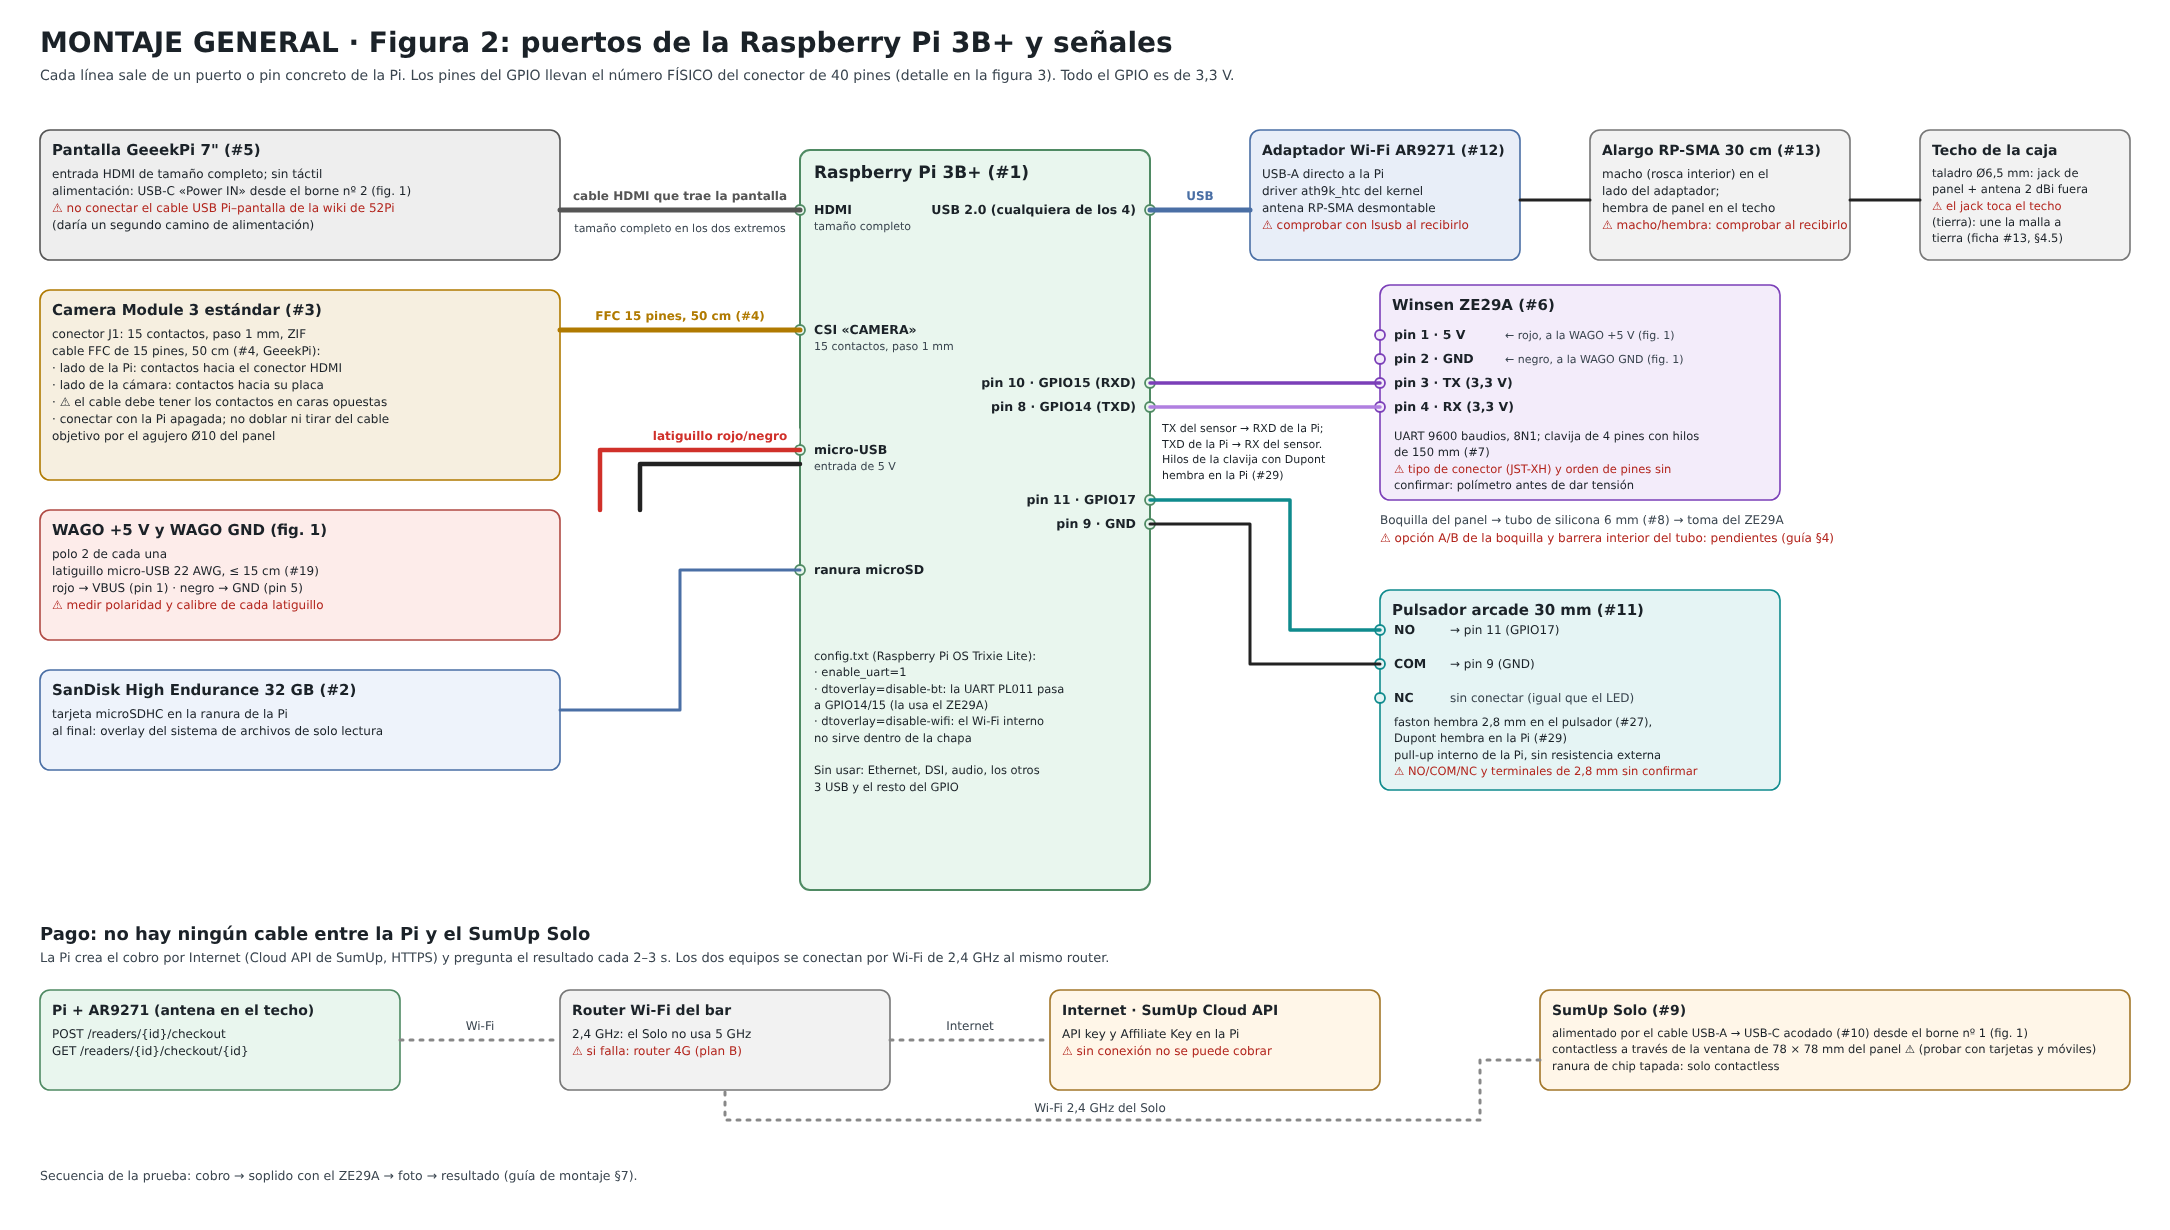
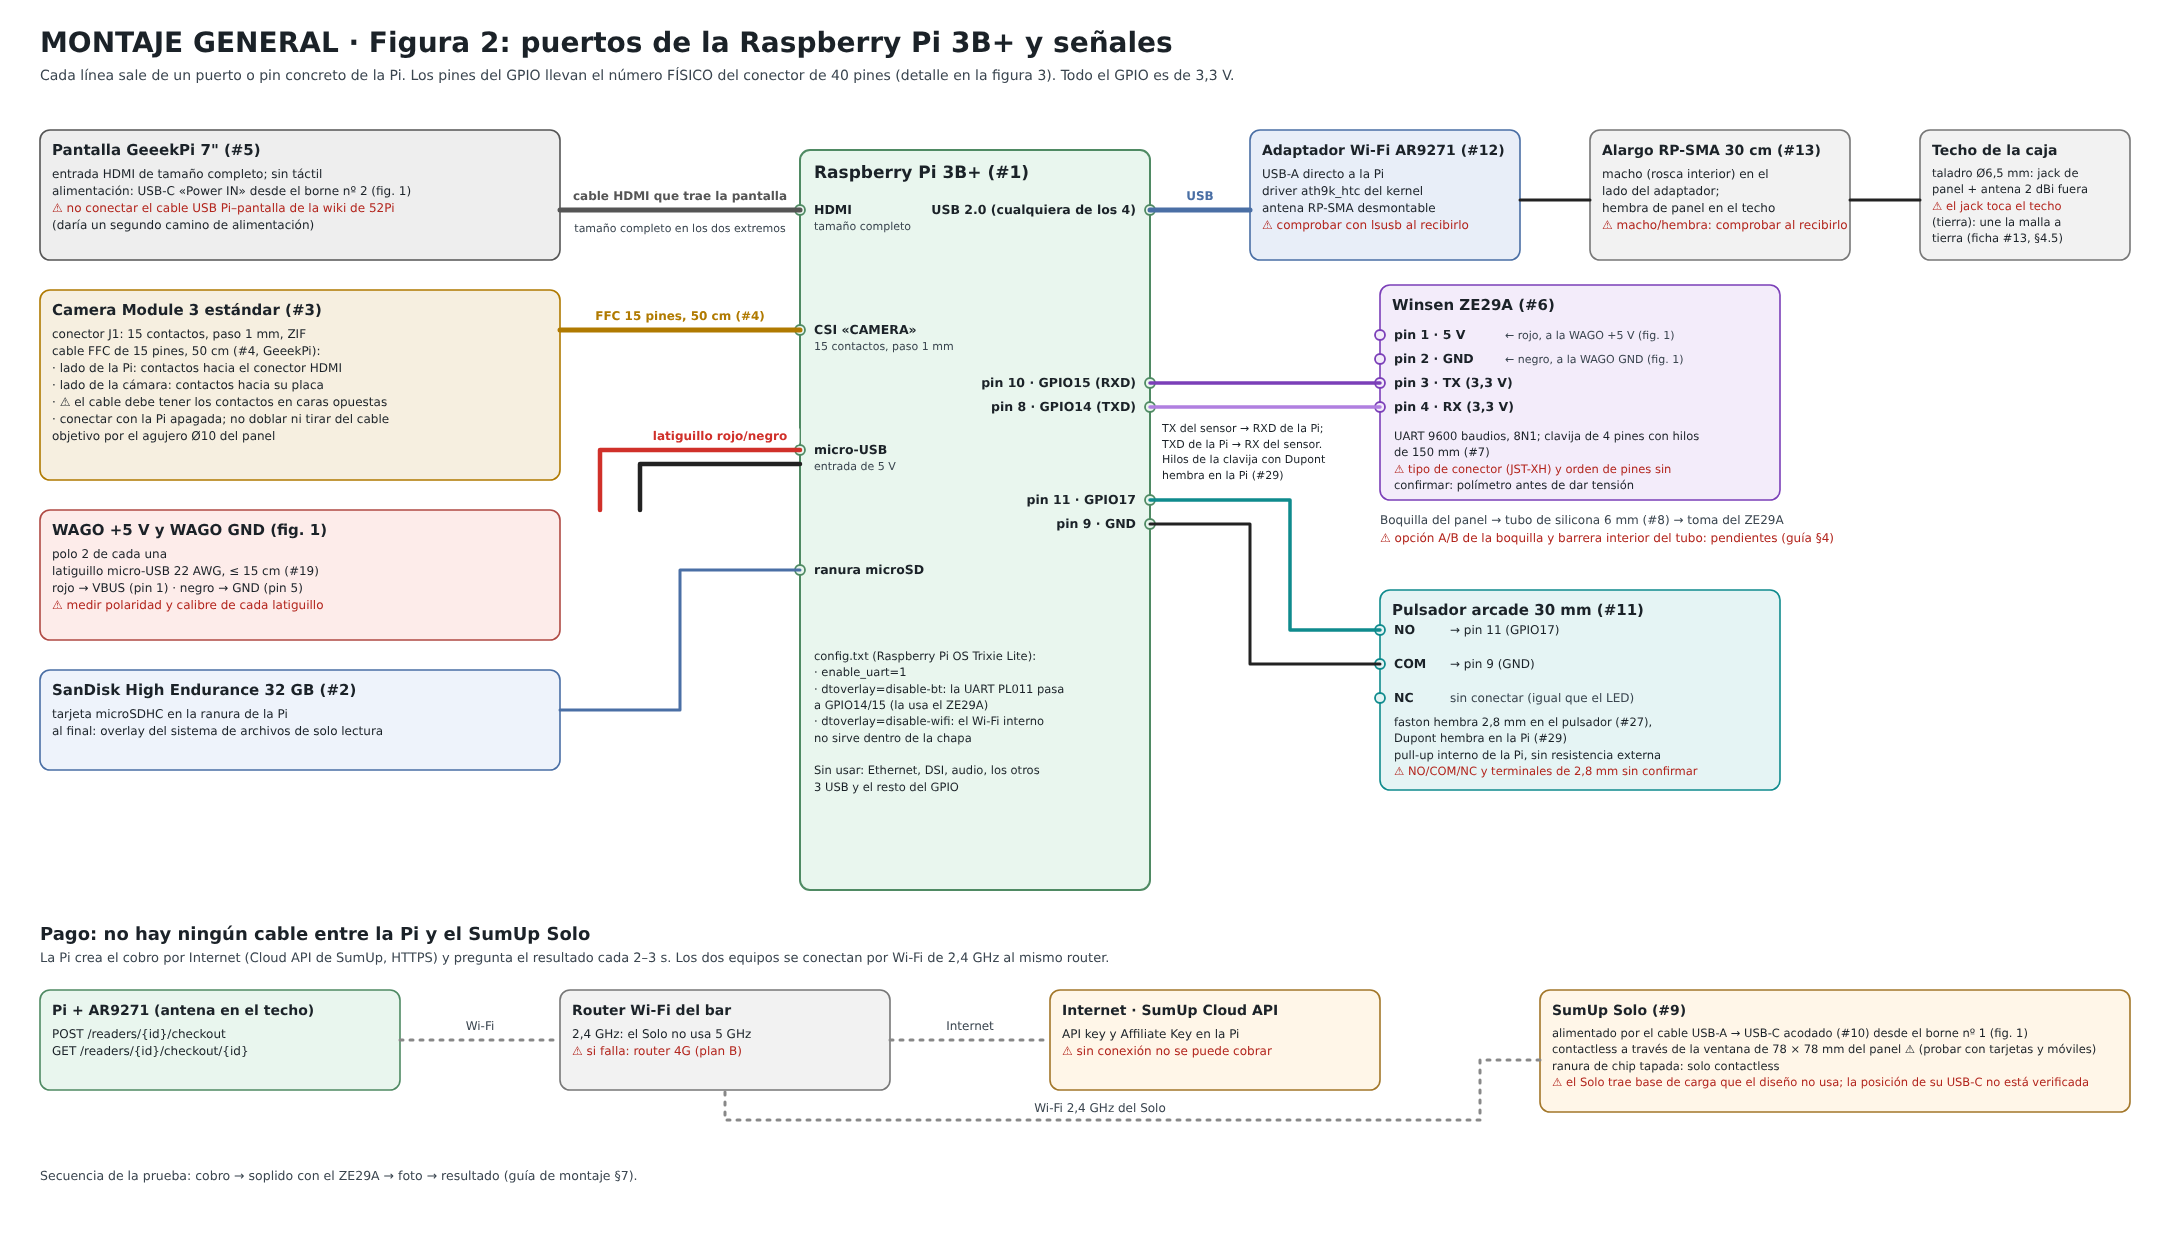
MONTAJE GENERAL: marca como sin verificar la posición del USB-C del Solo y la base de carga
Claude-Session: https://claude.ai/code/session_016isLGSnHz91zou8ob2MNAP

diff --git a/MONTAJE-GENERAL.md b/MONTAJE-GENERAL.md
@@ -61,7 +61,7 @@ Techo, separador y bandeja ya tienen tierra por estar soldados al cuerpo. En el 
 | W12 | LRS-50-5, borne 4 (DC −V) | WAGO «GND», polo 1 | Negro 0,75 mm², puntera | El −V flota respecto a tierra. ⚠ Decidir si se une a tierra y en qué único punto |
 | W13 | Polo 2 de las dos WAGO | Raspberry Pi, puerto micro-USB | Latiguillo micro-USB 22 AWG, ≤ 15 cm (#19): rojo → VBUS (pin 1), negro → GND (pin 5). Datos (D−, D+, ID) cortados y aislados | ⚠ Medir polaridad y calibre de cada latiguillo antes de cortarlo |
 | W14 | Polo 3 de las dos WAGO | Borne USB-A nº 1 (#18), tornillos VCC y GND | Rojo y negro 0,75 mm², puntera. D+ y D− del borne unidos con un puente | ⚠ El puente D+/D− no está probado con el Solo. ⚠ Un USB-A suele ir para 1 a 1,5 A y el pico estimado del Solo es de 2 A |
-| W15 | Borne USB-A nº 1 (conector hembra) | SumUp Solo (#9), USB-C del canto inferior | Cable USB-A → USB-C acodado 90°, 30 cm (#10) | ⚠ Tiene que llevar datos y 56 kΩ en el pin CC; el conector tiene que caber en la ranura de 14 × 9 mm del separador |
+| W15 | Borne USB-A nº 1 (conector hembra) | SumUp Solo (#9), puerto USB-C | Cable USB-A → USB-C acodado 90°, 30 cm (#10) | ⚠ Posición del USB-C (la guía dice «canto de abajo») sin verificar: el manual en texto no incluye los dibujos. El Solo viene con una base de carga que este diseño no usa. El cable tiene que llevar datos y 56 kΩ en el pin CC, y el conector tiene que caber en la ranura de 14 × 9 mm del separador |
 | W16 | Polo 4 de las dos WAGO | Borne USB-A nº 2 (#18), tornillos VCC y GND | Igual que W14 | ⚠ Igual que W14 |
 | W17 | Borne USB-A nº 2 (conector hembra) | Pantalla (#5), USB-C «Power IN» | Cable USB del paquete de la pantalla | ⚠ No se sabe si es A → C o C → C; un C → C no entra en el borne. No conectar el cable USB Pi–pantalla de la wiki de 52Pi |
 | W18 | Polo 5 de las dos WAGO | ZE29A (#6), pin 1 (5 V) y pin 2 (GND) | Hilos rojo y negro de la clavija de 4 pines, 150 mm (#7) | ⚠ Tipo de conector (JST-XH) sin confirmar |
@@ -99,7 +99,7 @@ Techo, separador y bandeja ya tienen tierra por estar soldados al cuerpo. En el 
 | 6 | [ZE29A](componentes/winsen-ze29a/README.md) | Pines 1 y 2 a las WAGO (W18), pin 4 a Pi 8 y pin 3 a Pi 10 (W19, W20), toma de aire al tubo (W28) |
 | 7 | [Cables JST-XH](componentes/cables-jst-xh-4-pin/README.md) | La clavija de 4 pines del ZE29A: llevan los hilos W18 a W20 |
 | 8 | [Tubo de silicona](componentes/tubo-silicona-6mm/README.md) | Boquilla del panel → toma de aire del ZE29A (W28) |
-| 9 | [SumUp Solo](componentes/sumup-solo/README.md) | USB-C del canto inferior (W15) y Wi-Fi (W29) |
+| 9 | [SumUp Solo](componentes/sumup-solo/README.md) | Puerto USB-C (W15; ⚠ posición sin verificar) y Wi-Fi (W29) |
 | 10 | [Cable USB-A → USB-C](componentes/cable-usb-a-usb-c-90-30cm/README.md) | Del borne USB-A nº 1 al USB-C del Solo (W15) |
 | 11 | [Pulsador arcade](componentes/pulsador-arcade-30mm/README.md) | NO a Pi 11 y COM a Pi 9 (W21, W22) |
 | 12 | [Adaptador AR9271](componentes/adaptador-wifi-ar9271/README.md) | Un USB de la Pi (W25) y el alargo de antena (W26) |
@@ -145,6 +145,7 @@ Techo, separador y bandeja ya tienen tierra por estar soldados al cuerpo. En el 
 - **Protección del raíl de 5 V:** falta fusible o PTC por rama ([ficha #14](componentes/meanwell-lrs-50-5/README.md)).
 - **Bornes USB-A:** corriente que aguantan (1 a 1,5 A frente a un pico estimado de 2 A del Solo) y si el Solo reconoce el puente D+/D− como cargador ([fichas #9, #10 y #18](componentes/borne-usb-a-hembra-tornillo/README.md)).
 - **−V frente a tierra:** hoy el −V flota; unirlo es una decisión de un solo punto ([ficha #30](componentes/separadores-nylon-m2-5/README.md)).
+- **SumUp Solo:** dónde está su USB-C (la guía dice «canto de abajo» y la ficha no lo ha podido ver) y si carga bien sin su base de carga ([ficha #9](componentes/sumup-solo/README.md)).
 - **Conector del ZE29A:** el manual solo da los 4 pines; tipo y paso del conector sin confirmar ([ficha #6](componentes/winsen-ze29a/README.md), [ficha #7](componentes/cables-jst-xh-4-pin/README.md)).
 - **Pulsador:** que tenga NO, COM y NC y terminales de 2,8 mm ([ficha #11](componentes/pulsador-arcade-30mm/README.md)).
 - **Cable de la pantalla:** si es A → C o C → C ([ficha #5](componentes/pantalla-geeekpi-7-hdmi/README.md)).
